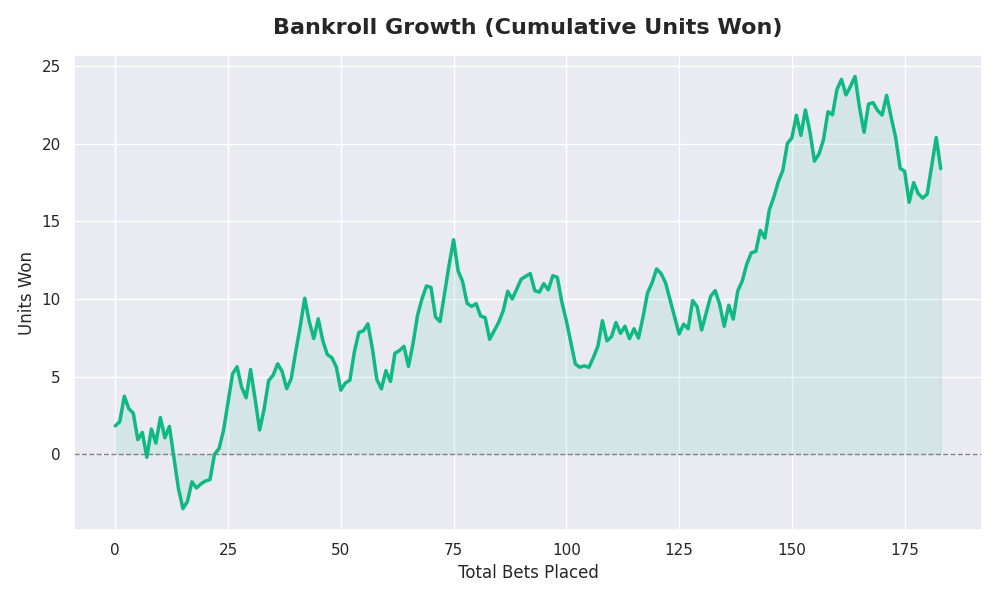
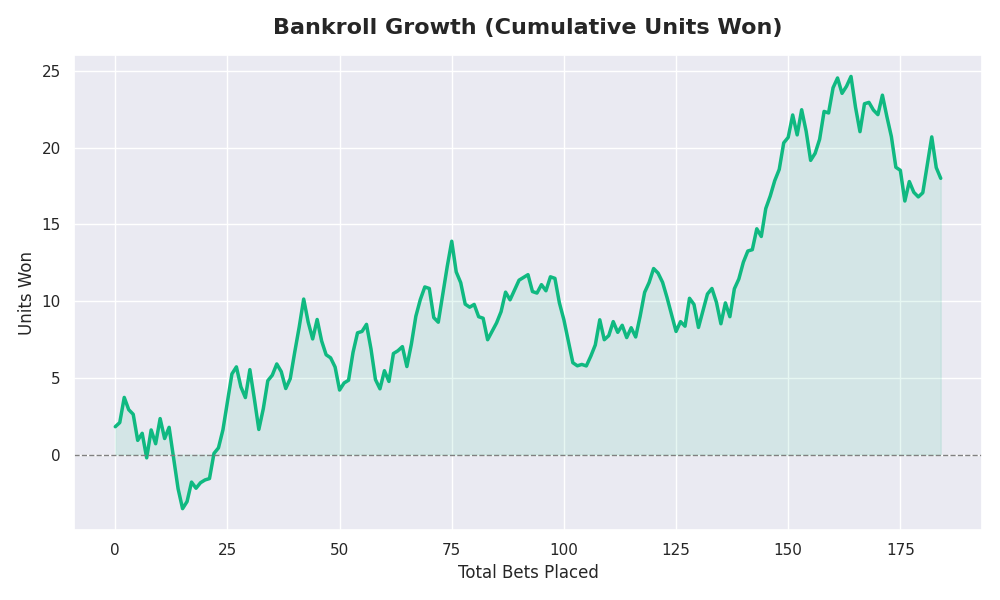
daily_update

diff --git a/docs/index.html b/docs/index.html
@@ -20,25 +20,25 @@
     <div class="mb-8 text-center">
         <h1 class="text-4xl font-bold text-blue-400 mb-2">🏈 NFL AI Handicapper</h1>
         <p class="text-gray-400">Automated predictions using XGBoost & Walk-Forward Validation</p>
-        <p class="text-xs text-gray-500 mt-2">Last Updated: 2025-12-15 09:22 UTC</p>
+        <p class="text-xs text-gray-500 mt-2">Last Updated: 2025-12-16 09:18 UTC</p>
     </div>
 
     <div class="grid grid-cols-1 md:grid-cols-4 gap-4 mb-8">
         <div class="card text-center">
             <h3 class="text-gray-400 text-sm">Total ROI</h3>
-            <p class="text-3xl font-bold win">10.0%</p>
+            <p class="text-3xl font-bold win">9.7%</p>
         </div>
         <div class="card text-center">
             <h3 class="text-gray-400 text-sm">Units Won</h3>
-            <p class="text-3xl font-bold win">18.41u</p>
+            <p class="text-3xl font-bold win">18.01u</p>
         </div>
         <div class="card text-center">
             <h3 class="text-gray-400 text-sm">Record</h3>
-            <p class="text-3xl font-bold">102-82-0</p>
+            <p class="text-3xl font-bold">102-83-0</p>
         </div>
         <div class="card text-center">
             <h3 class="text-gray-400 text-sm">Win Rate</h3>
-            <p class="text-3xl font-bold">55.4%</p>
+            <p class="text-3xl font-bold">55.1%</p>
         </div>
     </div>
 
@@ -57,18 +57,246 @@
             </thead>
             <tbody class="bg-gray-900">
                 
+                <tr class="table-row border-b border-gray-800 strong-bet">
+                    <td class="px-4 py-4 font-medium">BUF @ CLE</td>
+                    <td class="px-4 py-4">CLE +10.0</td>
+                    <td class="px-4 py-4">CLE +0.4</td>
+                    <td class="px-4 py-4 font-bold win">+9.6</td>
+                    <td class="px-4 py-4 font-bold text-white">BET CLE (2.0u)</td>
+                    <td class="px-4 py-4">
+                        
+                        <span class="px-2 py-1 rounded text-xs font-bold 
+                        bg-red-900 text-red-200">
+                            🔥 STRONG
+                        </span>
+                        
+                    </td>
+                </tr>
+                
+                <tr class="table-row border-b border-gray-800 strong-bet">
+                    <td class="px-4 py-4 font-medium">LV @ HOU</td>
+                    <td class="px-4 py-4">HOU -14.5</td>
+                    <td class="px-4 py-4">HOU -6.7</td>
+                    <td class="px-4 py-4 font-bold win">+7.8</td>
+                    <td class="px-4 py-4 font-bold text-white">BET LV (2.0u)</td>
+                    <td class="px-4 py-4">
+                        
+                        <span class="px-2 py-1 rounded text-xs font-bold 
+                        bg-red-900 text-red-200">
+                            🔥 STRONG
+                        </span>
+                        
+                    </td>
+                </tr>
+                
+                <tr class="table-row border-b border-gray-800 strong-bet">
+                    <td class="px-4 py-4 font-medium">PIT @ DET</td>
+                    <td class="px-4 py-4">DET -7.0</td>
+                    <td class="px-4 py-4">DET +0.1</td>
+                    <td class="px-4 py-4 font-bold win">+7.1</td>
+                    <td class="px-4 py-4 font-bold text-white">BET PIT (1.8u)</td>
+                    <td class="px-4 py-4">
+                        
+                        <span class="px-2 py-1 rounded text-xs font-bold 
+                        bg-red-900 text-red-200">
+                            🔥 STRONG
+                        </span>
+                        
+                    </td>
+                </tr>
+                
                 <tr class="table-row border-b border-gray-800 ">
-                    <td class="px-4 py-4 font-medium">MIA @ PIT</td>
-                    <td class="px-4 py-4">PIT -3.0</td>
-                    <td class="px-4 py-4">PIT -0.2</td>
-                    <td class="px-4 py-4 font-bold win">+2.8</td>
-                    <td class="px-4 py-4 font-bold text-white">BET MIA (0.6u)</td>
+                    <td class="px-4 py-4 font-medium">SF @ IND</td>
+                    <td class="px-4 py-4">IND +5.5</td>
+                    <td class="px-4 py-4">IND +0.2</td>
+                    <td class="px-4 py-4 font-bold win">+5.3</td>
+                    <td class="px-4 py-4 font-bold text-white">BET IND (1.3u)</td>
+                    <td class="px-4 py-4">
+                        
+                        <span class="px-2 py-1 rounded text-xs font-bold 
+                        bg-green-900 text-green-200">
+                            💪 SOLID
+                        </span>
+                        
+                    </td>
+                </tr>
+                
+                <tr class="table-row border-b border-gray-800 ">
+                    <td class="px-4 py-4 font-medium">NYJ @ NO</td>
+                    <td class="px-4 py-4">NO -4.5</td>
+                    <td class="px-4 py-4">NO +0.3</td>
+                    <td class="px-4 py-4 font-bold win">+4.8</td>
+                    <td class="px-4 py-4 font-bold text-white">BET NYJ (1.2u)</td>
+                    <td class="px-4 py-4">
+                        
+                        <span class="px-2 py-1 rounded text-xs font-bold 
+                        bg-green-900 text-green-200">
+                            💪 SOLID
+                        </span>
+                        
+                    </td>
+                </tr>
+                
+                <tr class="table-row border-b border-gray-800 ">
+                    <td class="px-4 py-4 font-medium">PHI @ WAS</td>
+                    <td class="px-4 py-4">WAS +6.5</td>
+                    <td class="px-4 py-4">WAS +2.1</td>
+                    <td class="px-4 py-4 font-bold win">+4.4</td>
+                    <td class="px-4 py-4 font-bold text-white">BET WAS (1.1u)</td>
+                    <td class="px-4 py-4">
+                        
+                        <span class="px-2 py-1 rounded text-xs font-bold 
+                        bg-green-900 text-green-200">
+                            💪 SOLID
+                        </span>
+                        
+                    </td>
+                </tr>
+                
+                <tr class="table-row border-b border-gray-800 ">
+                    <td class="px-4 py-4 font-medium">KC @ TEN</td>
+                    <td class="px-4 py-4">TEN +3.5</td>
+                    <td class="px-4 py-4">TEN +0.5</td>
+                    <td class="px-4 py-4 font-bold win">+3.0</td>
+                    <td class="px-4 py-4 font-bold text-white">BET TEN (0.6u)</td>
                     <td class="px-4 py-4">
                         
                         <span class="px-2 py-1 rounded text-xs font-bold 
                         bg-yellow-900 text-yellow-200">
                             ⚠ LEAN
                         </span>
+                        
+                    </td>
+                </tr>
+                
+                <tr class="table-row border-b border-gray-800 ">
+                    <td class="px-4 py-4 font-medium">JAX @ DEN</td>
+                    <td class="px-4 py-4">DEN -3.0</td>
+                    <td class="px-4 py-4">DEN -0.1</td>
+                    <td class="px-4 py-4 font-bold win">+3.0</td>
+                    <td class="px-4 py-4 font-bold text-white">BET JAX (0.6u)</td>
+                    <td class="px-4 py-4">
+                        
+                        <span class="px-2 py-1 rounded text-xs font-bold 
+                        bg-yellow-900 text-yellow-200">
+                            ⚠ LEAN
+                        </span>
+                        
+                    </td>
+                </tr>
+                
+                <tr class="table-row border-b border-gray-800 ">
+                    <td class="px-4 py-4 font-medium">ATL @ ARI</td>
+                    <td class="px-4 py-4">ARI +2.5</td>
+                    <td class="px-4 py-4">ARI +4.8</td>
+                    <td class="px-4 py-4 font-bold win">+2.3</td>
+                    <td class="px-4 py-4 font-bold text-white">BET ATL (0.4u)</td>
+                    <td class="px-4 py-4">
+                        
+                        <span class="px-2 py-1 rounded text-xs font-bold 
+                        bg-yellow-900 text-yellow-200">
+                            ⚠ LEAN
+                        </span>
+                        
+                    </td>
+                </tr>
+                
+                <tr class="table-row border-b border-gray-800 ">
+                    <td class="px-4 py-4 font-medium">GB @ CHI</td>
+                    <td class="px-4 py-4">CHI +1.5</td>
+                    <td class="px-4 py-4">CHI -0.1</td>
+                    <td class="px-4 py-4 font-bold win">+1.6</td>
+                    <td class="px-4 py-4 font-bold text-white">BET CHI (0.2u)</td>
+                    <td class="px-4 py-4">
+                        
+                        <span class="px-2 py-1 rounded text-xs font-bold 
+                        bg-yellow-900 text-yellow-200">
+                            ⚠ LEAN
+                        </span>
+                        
+                    </td>
+                </tr>
+                
+                <tr class="table-row border-b border-gray-800 ">
+                    <td class="px-4 py-4 font-medium">CIN @ MIA</td>
+                    <td class="px-4 py-4">MIA +1.5</td>
+                    <td class="px-4 py-4">MIA -0.1</td>
+                    <td class="px-4 py-4 font-bold win">+1.6</td>
+                    <td class="px-4 py-4 font-bold text-white">BET MIA (0.2u)</td>
+                    <td class="px-4 py-4">
+                        
+                        <span class="px-2 py-1 rounded text-xs font-bold 
+                        bg-yellow-900 text-yellow-200">
+                            ⚠ LEAN
+                        </span>
+                        
+                    </td>
+                </tr>
+                
+                <tr class="table-row border-b border-gray-800 ">
+                    <td class="px-4 py-4 font-medium">LA @ SEA</td>
+                    <td class="px-4 py-4">SEA -1.5</td>
+                    <td class="px-4 py-4">SEA -0.1</td>
+                    <td class="px-4 py-4 font-bold win">+1.4</td>
+                    <td class="px-4 py-4 font-bold text-white">BET LA (0.2u)</td>
+                    <td class="px-4 py-4">
+                        
+                        <span class="px-2 py-1 rounded text-xs font-bold 
+                        bg-yellow-900 text-yellow-200">
+                            ⚠ LEAN
+                        </span>
+                        
+                    </td>
+                </tr>
+                
+                <tr class="table-row border-b border-gray-800 ">
+                    <td class="px-4 py-4 font-medium">LAC @ DAL</td>
+                    <td class="px-4 py-4">DAL -1.5</td>
+                    <td class="px-4 py-4">DAL -0.8</td>
+                    <td class="px-4 py-4 font-bold win">+0.7</td>
+                    <td class="px-4 py-4 font-bold text-white">PASS</td>
+                    <td class="px-4 py-4">
+                        
+                        <span class="px-2 py-1 rounded text-xs font-bold bg-gray-700 text-gray-400">None</span>
+                        
+                    </td>
+                </tr>
+                
+                <tr class="table-row border-b border-gray-800 ">
+                    <td class="px-4 py-4 font-medium">NE @ BAL</td>
+                    <td class="px-4 py-4">BAL -3.0</td>
+                    <td class="px-4 py-4">BAL -2.3</td>
+                    <td class="px-4 py-4 font-bold win">+0.7</td>
+                    <td class="px-4 py-4 font-bold text-white">PASS</td>
+                    <td class="px-4 py-4">
+                        
+                        <span class="px-2 py-1 rounded text-xs font-bold bg-gray-700 text-gray-400">None</span>
+                        
+                    </td>
+                </tr>
+                
+                <tr class="table-row border-b border-gray-800 ">
+                    <td class="px-4 py-4 font-medium">MIN @ NYG</td>
+                    <td class="px-4 py-4">NYG +3.0</td>
+                    <td class="px-4 py-4">NYG +2.7</td>
+                    <td class="px-4 py-4 font-bold win">+0.4</td>
+                    <td class="px-4 py-4 font-bold text-white">PASS</td>
+                    <td class="px-4 py-4">
+                        
+                        <span class="px-2 py-1 rounded text-xs font-bold bg-gray-700 text-gray-400">None</span>
+                        
+                    </td>
+                </tr>
+                
+                <tr class="table-row border-b border-gray-800 ">
+                    <td class="px-4 py-4 font-medium">TB @ CAR</td>
+                    <td class="px-4 py-4">CAR +3.0</td>
+                    <td class="px-4 py-4">CAR +2.8</td>
+                    <td class="px-4 py-4 font-bold win">+0.2</td>
+                    <td class="px-4 py-4 font-bold text-white">PASS</td>
+                    <td class="px-4 py-4">
+                        
+                        <span class="px-2 py-1 rounded text-xs font-bold bg-gray-700 text-gray-400">None</span>
                         
                     </td>
                 </tr>
@@ -264,6 +492,29 @@
                     <td class="px-4 py-3">PHI -9.3</td>
                     <td class="px-4 py-3 win">+3.2</td>
                     <td class="px-4 py-3 font-bold">LV (0.7u)</td>
+                    <td class="px-4 py-3">
+                        
+                        <span class="px-1 py-0.5 rounded text-xs font-bold 
+                        bg-yellow-900 text-yellow-200">
+                            LEAN
+                        </span>
+                        
+                    </td>
+                    <td class="px-4 py-3">
+                        <span class="loss">
+                            LOSS
+                        </span>
+                    </td>
+                    <td class="px-4 py-3 loss">-0.7u</td>
+                </tr>
+                
+                <tr class="table-row border-b border-gray-800">
+                    <td class="px-4 py-3">W15</td>
+                    <td class="px-4 py-3">MIA @ PIT</td>
+                    <td class="px-4 py-3">PIT -3.0</td>
+                    <td class="px-4 py-3">PIT +0.0</td>
+                    <td class="px-4 py-3 win">+3.0</td>
+                    <td class="px-4 py-3 font-bold">MIA (0.7u)</td>
                     <td class="px-4 py-3">
                         
                         <span class="px-1 py-0.5 rounded text-xs font-bold 
